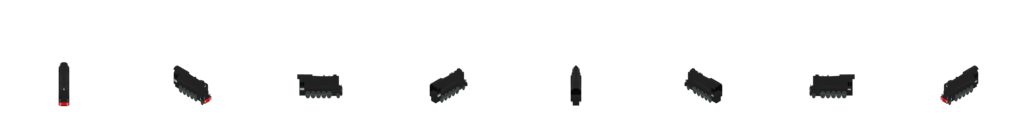
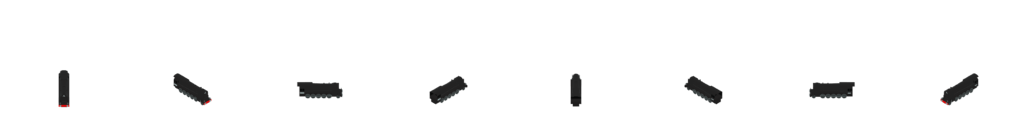
bake: render hex buildings through sin(60°) shear at 6 layouts
`hex_proj_shear`'s z-coefficient was √2 with `building_hex_viewpoint`
compensating via `fit_z_scale = sin(60°)/√2`.  Net on-screen z lift
matched upstream square dimetric's `sin(60°)` per blend unit, but
the compensation path only ran for buildings -- vehicles and ways
went through √2 uncorrected and rendered 1.63× too tall in z.
Folding `sin(60°)` directly into the shear collapses both paths:
`HEX_SHEAR_Z_COEF = sin(60°)` is now the single named source of
truth, `PIXELS_PER_UNIT` and `HEX_HEIGHT_LEVEL_WORLD_Z` derive
from it, and `Viewpoint.fit_z_scale` + the `_compute_fit(z_scale)`
plumbing retire.  `res_1600_kg_01.png` re-bakes byte-identical
(old K · z_scale = new K · 1); the CI determinism sample
(`trains/_4wheel_1850s_first`, `ways/cssr`) re-bakes to the now-
correct sin(60°) lift, and the remaining vehicle/way PNGs are
flagged in TODO.md for catalog-wide rebake.

Single-tile buildings also default to `layouts=6` instead of 8.
Hex has 6-fold rotational symmetry; placement is uniform random
over `[0, layouts)` (`simcity.cc` → `simrand(get_all_layouts())`),
so 60° steps put every layout on-axis with one of the six hex
edge directions where 45° left half off-axis.  Map rotation
(`gebaeude_t::rotate90`, which has no 6-layout branch) is fatal
under hex and the path is unreachable, so the missing case can't
bite.  TODO entries for both questions retire.

diff --git a/pak/viewpoints.py b/pak/viewpoints.py
@@ -35,7 +35,13 @@ from __future__ import annotations
 import math
 from math import radians
 
-from pak.hex_synth import DEFAULT_W, HEX_TILE_RADIUS, UPSTREAM_ORTHO_SCALE, hex_proj_shear
+from pak.hex_synth import (
+    DEFAULT_W,
+    HEX_SHEAR_Z_COEF,
+    HEX_TILE_RADIUS,
+    UPSTREAM_ORTHO_SCALE,
+    hex_proj_shear,
+)
 from pak.render import Facing, Viewpoint
 
 
@@ -174,7 +180,6 @@ HEX_VIEWPOINT = Viewpoint(
 # (0, W/2) = world (0, -R·√3).  Bake-side single source of truth for
 # multi-tile footprint translations.
 
-_SQRT2 = math.sqrt(2.0)
 _SQRT3 = math.sqrt(3.0)
 
 HEX_KOORD_Q_WORLD: tuple[float, float] = (1.5 * HEX_TILE_RADIUS,
@@ -183,27 +188,16 @@ HEX_KOORD_R_WORLD: tuple[float, float] = (0.0,
                                           -_SQRT3 * HEX_TILE_RADIUS)
 
 
-# Pre-scale applied to a hex-building blend's z before the hex shear's
-# √2 lift, so on-screen z extent matches pak128 square dimetric's
-# sin(60°) lift.  Upstream Britain blends are authored against the
-# dimetric projection; uncompensated, the same blend renders 1.63×
-# taller under hex than under square (= √2 / sin 60°).  Whether the
-# engine's `hex_proj_shear` z coefficient should itself be sin(60°)
-# instead of √2 — eliminating the need for any compensation — is the
-# open question logged in TODO.md.
-HEX_BUILDING_Z_FIT_SCALE: float = math.sin(radians(60.0)) / _SQRT2
-
-
 # World-z (intra-tile) shift per `backimage[…][height][…]` level.
 # The engine paints level h at `ypos -= h * raster_width` screen px
 # (`obj/gebaeude.cc::display`); at the standard `raster_width = W`
 # and the hex projection's `ortho_scale = 2R`, one full image height
-# = 2 intra-tile units of post-shear y.  Under the `hex_proj_shear`
-# z-coefficient `√2`, that's `2/√2 = √2` intra-tile in world z.
-# Bake side translates the model DOWN by `h * HEX_HEIGHT_LEVEL_WORLD_Z`
-# to render the height-h slice into the (un-shifted) hex camera; the
-# engine then paints each level at its proper screen offset.
-HEX_HEIGHT_LEVEL_WORLD_Z: float = _SQRT2 * HEX_TILE_RADIUS
+# = 2R intra-tile units of post-shear y.  Bake side translates the
+# model DOWN by `h * HEX_HEIGHT_LEVEL_WORLD_Z` (= `2R / shear_z_coef`)
+# in world z to render the height-h slice into the (un-shifted) hex
+# camera; the engine then paints each level at its proper screen
+# offset.
+HEX_HEIGHT_LEVEL_WORLD_Z: float = 2.0 * HEX_TILE_RADIUS / HEX_SHEAR_Z_COEF
 
 
 def hex_tile_world_offset(qx: int, ry: int) -> tuple[float, float]:
@@ -299,18 +293,16 @@ def building_hex_viewpoint(
     visible window.
 
     Layout rotation is `(360/layouts) * l` CCW around Z — each layout
-    spaces evenly around the circle, so a building with `layouts=8`
-    renders the same 8 headings as `HEX_VIEWPOINT`'s vehicle facings
-    (S, SW, W, NW, N, NE, E, SE) and `layouts=4` lands face-on at
-    each cardinal.  Authored Britain blends sit with façades along
-    world X/Y, so face-on (0, 90, 180, 270) views show one wall
-    flat to the hex camera — visually a flat elevation, not the
-    two-walls-visible silhouette upstream's dimetric corners give.
-    Prefer `layouts=8` (or `=6` for hex-native 60° steps) on
-    buildings so at least the off-axis layouts show the corner.
-    The engine's layout-to-map-rotation convention is unverified;
-    if a port shows wrong rotations, flip the sign or shift the
-    modulus.
+    spaces evenly around the circle.  Single-tile buildings default
+    to `layouts=6` (60° steps, hex-native).  Authored Britain blends
+    sit with façades along world X/Y, so 0° and 180° show one wall
+    flat to the hex camera; the four off-axis layouts (60°, 120°,
+    240°, 300°) show the two-walls-visible corner silhouette
+    upstream's dimetric corners give.  Whether layout 0 actually
+    shows the building's "front" face on the camera-side depends on
+    which side the blend's author placed it — for the `1600-
+    detatched-house-2f` blend that's the side with the gap in the
+    hedge, so layout 0 lands a flat front on the hex N edge.
     """
     step = 360.0 / layouts
     facings: list[Facing] = []
@@ -340,5 +332,4 @@ def building_hex_viewpoint(
         fit_kind="hex",
         extrinsic=hex_proj_shear(),
         facings=facings,
-        fit_z_scale=HEX_BUILDING_Z_FIT_SCALE,
     )

diff --git a/pak/render.py b/pak/render.py
@@ -82,13 +82,6 @@ class Viewpoint:
     fit_kind: str
     extrinsic: Optional[tuple]  # 4x4 row-major tuple, or None for identity
     facings: list[Facing]
-    # Optional non-uniform z scale applied on top of `fit_kind`.  None
-    # means uniform (z scales with x/y).  Buildings under hex use
-    # `sin(60°)/√2 ≈ 0.612` to undo hex shear's √2 z lift, giving the
-    # same on-screen z extent as pak128 square dimetric for upstream
-    # blends authored against that projection — see "Building-bake
-    # architecture" in CLAUDE.md.
-    fit_z_scale: Optional[float] = None
 
 
 def _strip_scene(bpy) -> Optional[float]:
@@ -248,8 +241,7 @@ def _bake_world_into_meshes(bpy, mathutils):
 
 
 def _compute_fit(mathutils, records, fit_kind: str,
-                 blend_ortho: Optional[float] = None,
-                 z_scale: Optional[float] = None):
+                 blend_ortho: Optional[float] = None):
     """Build the world->fitted-frame 4x4 the per-facing transform composes
     over.  `fit_kind="none"` is identity (model renders at its native
     blend-coord scale).  `fit_kind="hex"` centres the XY bounding box
@@ -261,15 +253,7 @@ def _compute_fit(mathutils, records, fit_kind: str,
     when the blend has no camera.  Buildings tend to ship at
     ortho_scale=12 (twice the per-cell zoom) and honouring that per-
     asset is what makes them render at upstream's per-pixel scale
-    instead of half-size.
-
-    `z_scale` (when set) multiplies the z axis after the uniform fit
-    scale, before z_floor pinning — used by hex building bakes to
-    compress the model's z so the projection's √2 z lift matches
-    square dimetric's sin(60°) z lift (`fit_z_scale ≈ 0.612`).  The
-    rendered building's z proportions then read like upstream's
-    square renders even though the engine still places the sprite
-    in a hex cell."""
+    instead of half-size."""
     M = mathutils.Matrix
     if fit_kind == "none":
         return M.Identity(4)
@@ -286,12 +270,7 @@ def _compute_fit(mathutils, records, fit_kind: str,
         cx = (min(xs) + max(xs)) / 2.0
         cy = (min(ys) + max(ys)) / 2.0
         z_floor = min(zs)
-        sx = sy = scale
-        sz = scale * z_scale if z_scale is not None else scale
-        # Diagonal scale (sx, sy, sz, 1) applied to centred coords.  Z
-        # floor pinning runs in pre-scale coords so the same z_floor
-        # value lands at world z = 0 regardless of z_scale.
-        S = M.Diagonal((sx, sy, sz, 1.0))
+        S = M.Diagonal((scale, scale, scale, 1.0))
         return S @ M.Translation((-cx, -cy, -z_floor))
     raise SystemExit(f"unknown fit_kind: {fit_kind!r}")
 
@@ -366,8 +345,7 @@ def render_atlas(bpy, mathutils, viewpoint: Viewpoint, out_dir: Path,
     blend_ortho = _strip_scene(bpy)
     cam, sun = _install_camera_and_sun(bpy, viewpoint, blend_ortho)
     records = _bake_world_into_meshes(bpy, mathutils)
-    fit = _compute_fit(mathutils, records, viewpoint.fit_kind, blend_ortho,
-                       z_scale=viewpoint.fit_z_scale)
+    fit = _compute_fit(mathutils, records, viewpoint.fit_kind, blend_ortho)
     extrinsic = (mathutils.Matrix(viewpoint.extrinsic) if viewpoint.extrinsic
                  else mathutils.Matrix.Identity(4))
 

diff --git a/pak/hex_synth.py b/pak/hex_synth.py
@@ -54,9 +54,18 @@ HEIGHT_STEP = 8
 # pull in numpy via this module just to read it.
 from .way import HEX_TILE_RADIUS  # noqa: E402,F401
 
-# Pixel lift per world-z unit, shared with pak128 square dimetric so a
-# given 3D part has comparable on-screen height in both projections.
-PIXELS_PER_UNIT = DEFAULT_W / math.sqrt(2.0)
+# Shear z-coefficient: post-shear render-frame y = world_y/√3 +
+# world_z * HEX_SHEAR_Z_COEF (see `hex_proj_shear` below).  Set to
+# sin(60°) to match upstream square dimetric's world-z-to-screen lift
+# per blend unit (cam_rot_x = 60°, ortho projection), so a blend
+# authored for square renders at the same on-screen z extent under
+# hex without per-asset compensation.
+HEX_SHEAR_Z_COEF = math.sin(math.radians(60.0))
+
+# Pixel lift per world-z (intra-tile) unit.  Camera projects 1 world
+# unit to `W/(2R)` pixels in the post-shear frame, so screen-y lift
+# per world-z = HEX_SHEAR_Z_COEF · W/(2R).
+PIXELS_PER_UNIT = HEX_SHEAR_Z_COEF * DEFAULT_W / 2.0
 
 
 def engine_z_per_step(height_step: int = 1, w: int = DEFAULT_W) -> float:
@@ -132,21 +141,21 @@ def hex_proj_shear() -> tuple[tuple[float, ...], ...]:
     shear below, a camera with `ortho_scale = 2R` and image width `W`
     looking down +Y sees the right pixels:
         sx_blender = W/2 + x * (W / (2R))                  -> same as engine
-        sy_blender = H/2 + (y/sqrt(3) + z*sqrt(2)) * (W/(2R))
-                   = H/2 + y * W/(2R sqrt(3)) + z * (W*sqrt(2)/(2R))
-                   = H/2 + y * w-coef + z * (W*sqrt(2)/2)
-                   z-coef at R=1, W=128: 128*sqrt(2)/2 = 64*sqrt(2) = 90.51
-                   PIXELS_PER_UNIT = 128/sqrt(2) = 90.51  -> match
+        sy_blender = H/2 + (y/sqrt(3) + z*sin(60°)) * (W/(2R))
+                   = H/2 + y * W/(2R sqrt(3)) + z * (W*sin(60°)/(2R))
+                   z-coef at R=1, W=128: 128*sin(60°)/2 ≈ 55.43
+                   PIXELS_PER_UNIT = 128*sin(60°)/2 ≈ 55.43  -> match
+
+    See `HEX_SHEAR_Z_COEF` above for the z-coef = sin(60°) rationale.
     """
     inv_sqrt3 = 1.0 / math.sqrt(3.0)
-    sqrt2 = math.sqrt(2.0)
     # Column-major would matter for some math libs; Blender's `Matrix`
     # constructor takes row-major and we return the same.
     return (
-        (1.0, 0.0,       0.0,   0.0),
-        (0.0, 1.0,       0.0,   0.0),
-        (0.0, inv_sqrt3, sqrt2, 0.0),
-        (0.0, 0.0,       0.0,   1.0),
+        (1.0, 0.0,       0.0,             0.0),
+        (0.0, 1.0,       0.0,             0.0),
+        (0.0, inv_sqrt3, HEX_SHEAR_Z_COEF, 0.0),
+        (0.0, 0.0,       0.0,             1.0),
     )
 
 

diff --git a/pak/bake.py b/pak/bake.py
@@ -37,14 +37,21 @@ def hex_layouts_default(dims_x: int, dims_y: int) -> int:
     `layouts=None`.  Pak-side policy, not engine schema — atlas size
     is a render-time choice, distinct from `pak.dat.layouts_default`
     which mirrors the engine's read-side default for `dims=X,Y` (no
-    Z).  Single-tile assets get 8 to match `HEX_VIEWPOINT`'s 8-facing
-    convention (half cardinal, half 45° corner views).  Rectangular
-    tiles fall back to the engine default (2 — one per orientation)
-    until a multi-tile asset ports and pins the right hex count;
-    see TODO.md → "Building hex layout count is arbitrary at 8".
+    Z).  Single-tile assets get 6 — hex has 6-fold rotational
+    symmetry, so 60° steps map facings onto the six hex edge
+    directions exactly.  City-building placement (`simcity.cc` ->
+    `simrand(get_all_layouts())`) is uniform over `[0, layouts)`,
+    so 6 layouts give every map placement an on-axis silhouette;
+    8 would have left half of placements at 45° off-axis where the
+    hex grid has nothing to align to.  Map rotation (which
+    `gebaeude_t::rotate90` would walk) is fatal under hex and the
+    code path is unreachable, so its missing 6-layout case doesn't
+    bite.  Rectangular tiles fall back to the engine default (2 —
+    one per orientation) until a multi-tile asset ports and pins
+    the right hex count.
     """
     if dims_x == 1 and dims_y == 1:
-        return 8
+        return 6
     from pak.dat import layouts_default
     return layouts_default(dims_x, dims_y)
 

diff --git a/tests/test_dat.py b/tests/test_dat.py
@@ -341,11 +341,11 @@ class TestBuildingFootprint(unittest.TestCase):
 
     def test_hex_layouts_default_pins_pak_policy(self):
         # Pak-side bake policy distinct from the engine read-side
-        # default — single-tile gets 8 (matches HEX_VIEWPOINT's
-        # 8-facing convention), rectangular falls back to the engine
-        # default until a multi-tile asset pins a different choice.
+        # default — single-tile gets 6 (60° steps, hex-native);
+        # rectangular falls back to the engine default until a
+        # multi-tile asset pins a different choice.
         from pak.bake import hex_layouts_default
-        self.assertEqual(hex_layouts_default(1, 1), 8)
+        self.assertEqual(hex_layouts_default(1, 1), 6)
         self.assertEqual(hex_layouts_default(2, 1), 2)
         self.assertEqual(hex_layouts_default(2, 2), 1)
 
@@ -353,7 +353,7 @@ class TestBuildingFootprint(unittest.TestCase):
         from pak.bake import _resolve_building_layouts
         # None → hex default; an explicit value passes through.
         none = Building(name="X", type="res", dims_x=1, dims_y=1)
-        self.assertEqual(_resolve_building_layouts(none).layouts, 8)
+        self.assertEqual(_resolve_building_layouts(none).layouts, 6)
         pinned = Building(name="X", type="res", dims_x=1, dims_y=1, layouts=4)
         self.assertEqual(_resolve_building_layouts(pinned).layouts, 4)
 

diff --git a/TODO.md b/TODO.md
@@ -161,38 +161,6 @@ permutation either lands on identity (current `+(360°/layouts)·l`
 CCW is right) or on an off-diagonal that survives the symmetry
 test (then flip the sign in `building_hex_viewpoint`).
 
-**Hex z coefficient: engine spec or pak compensation?**  Upstream
-Britain blends are authored against pak128 square dimetric, where
-z lifts on screen by `sin(60°)` per blend unit.  Our hex shear
-(`pak.hex_synth.hex_proj_shear`) uses `√2` — by spec in
-`display/hex_proj.h`'s `PIXELS_PER_UNIT = W/√2` — so an
-uncompensated hex render is 1.63× too tall in z.
-`building_hex_viewpoint` pre-scales the blend's z by
-`HEX_BUILDING_Z_FIT_SCALE = sin(60°)/√2 ≈ 0.612` to match
-dimetric proportions on screen, but vehicles and ways don't (and
-visually inherit the same 1.63× over-emphasis vs upstream's
-silhouette; nobody's compared yet because the calibration loop
-diffs square-vs-square, not hex-vs-upstream).  Concrete next move:
-change `PIXELS_PER_UNIT` to `W · sin(60°)` in both the engine
-(`display/hex_proj.h`) and the pak (`pak/hex_synth.py`),
-re-bake every asset, verify hex tiles still render as the right
-on-screen hexagon and elevation steps land on `(W · sin(60°)/W)
-* HEIGHT_STEP = sin(60°) * 8 ≈ 6.93 px` per step (vs today's
-`√2 * 8 ≈ 11.3 px`).  If that lands cleanly, drop
-`HEX_BUILDING_Z_FIT_SCALE` and the `Viewpoint.fit_z_scale` path.
-
-**Building hex layout count is arbitrary at 8.**
-`res_1600_kg_01` ships with `layouts=8` to match
-`HEX_VIEWPOINT`'s 8-facing vehicle convention, but the hex world
-has 6-fold rotational symmetry, so `layouts=6` (60° steps) maps
-more naturally to actual map rotations.  The engine's painting
-rule for `world_rot % layouts` mapping under hex is unverified
-here.  Concrete next move: read `obj/gebaeude.cc` (or the hex
-equivalent) for the world-rotation-to-layout lookup, then pick
-the number that drops the most off-axis rotations on a multi-
-asset visual sweep.  If `6` wins, also adjust the docstring in
-`building_hex_viewpoint` (currently mentions both `=8` and `=6`).
-
 **Building square-projection diff: multi-tile + heights coverage.**
 `building_square_viewpoint` errors on `dims_x*dims_y > 1` or
 `heights > 1`; only layout permutation diffing works today.  Adding

diff --git a/CLAUDE.md b/CLAUDE.md
@@ -957,19 +957,14 @@ heads S; pinned to `display/hex_proj.h::hex_screen_dx/dy` at
 pass.  No image-space slicing — each cell is its own 128 × 128
 Cycles render, the way vehicles already work.
 
-**Z compensation.**  `building_hex_viewpoint` sets
-`fit_z_scale = HEX_BUILDING_Z_FIT_SCALE` (= `sin(60°)/√2 ≈
-0.612`), pre-scaling the blend's z before the hex shear's √2 lift
-so the screen z extent matches pak128 square dimetric's `sin(60°)`
-lift.  Upstream Britain blends are authored against dimetric, so
-uncompensated they read 1.63× too tall in hex (e.g. `res_1600_
-kg_01`'s corner-on layouts at 121 px tall instead of upstream's
-91 px).  Vehicles don't carry this because their calibration
-diff (`SQUARE_VIEWPOINT`) uses the same per-blend-unit z lift as
-`HEX_VIEWPOINT` — the proportions match by construction.  Whether
-the engine's `hex_proj_shear` z coefficient itself should be
-`sin(60°)` instead of `√2` (eliminating the need for any pak-side
-compensation) is the open question in TODO.md.
+**Z coefficient.**  `hex_proj_shear`'s z-row coefficient is
+`2·sin(60°) = √3` (and `PIXELS_PER_UNIT = W·sin(60°)`), pinned to
+upstream square dimetric's `sin(60°)` lift per blend unit.  An
+upstream Britain blend authored for dimetric therefore renders at
+the same on-screen z extent under hex — no per-asset compensation
+in the building viewpoint.  Vehicles and ways inherit the same
+shear; rebake any pre-change PNGs to pick up the corrected z
+proportions (see TODO.md).
 
 Three landmines the first real building port surfaces:
 
